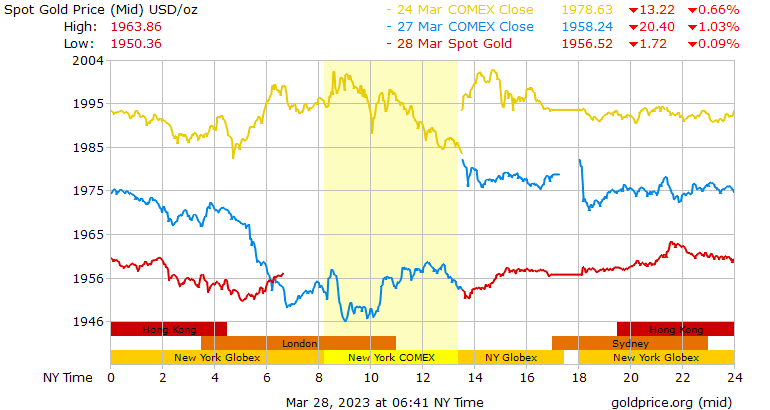
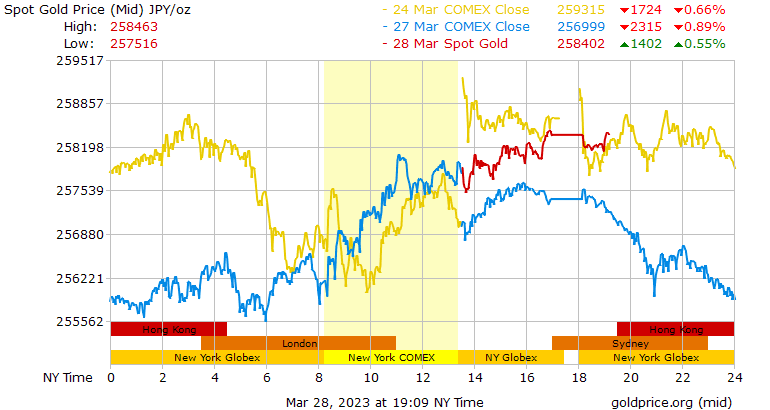
Set up preferences of the currencies from the aplications

diff --git a/toolbar.go b/toolbar.go
@@ -6,6 +6,7 @@ import (
 	"time"
 
 	"fyne.io/fyne/v2"
+	"fyne.io/fyne/v2/container"
 	"fyne.io/fyne/v2/dialog"
 	"fyne.io/fyne/v2/theme"
 	"fyne.io/fyne/v2/widget"
@@ -20,10 +21,35 @@ func (app *Config) getToolBar() *widget.Toolbar {
 		widget.NewToolbarAction(theme.ViewRefreshIcon(), func() {
 			app.refreshPriceContent()
 		}),
-		widget.NewToolbarAction(theme.SettingsIcon(), func() {}),
+		widget.NewToolbarAction(theme.SettingsIcon(), func() {
+			w := app.showPreferences()
+			w.Resize(fyne.NewSize(300, 200))
+			w.Show()
+		}),
 	)
 
 	return toolBar
+}
+
+func (app *Config) showPreferences() fyne.Window {
+	win := app.App.NewWindow("Preferences")
+
+	label := widget.NewLabel("Preferred Currency")
+	cur := widget.NewSelect([]string{"USD", "CAD", "JPY", "BRL"}, func(value string) {
+		currency = value
+		app.App.Preferences().SetString("currency", value)
+	})
+	cur.Selected = currency
+
+	btn := widget.NewButton("Save", func() {
+		win.Close()
+		app.refreshPriceContent()
+	})
+	btn.Importance = widget.HighImportance
+
+	win.SetContent(container.NewVBox(label, cur, btn))
+
+	return win
 }
 
 func (app *Config) addHoldingsDialog() dialog.Dialog {

diff --git a/main.go b/main.go
@@ -52,6 +52,8 @@ func main() {
 	// create a database repository
 	myApp.setupDB(sqlDB)
 
+	currency = fyneApp.Preferences().StringWithFallback("currency", "CAD")
+
 	// create and size a fyne window
 	myApp.MainWindow = fyneApp.NewWindow("GoldWatcher")
 	myApp.MainWindow.Resize(fyne.NewSize(770, 410))
